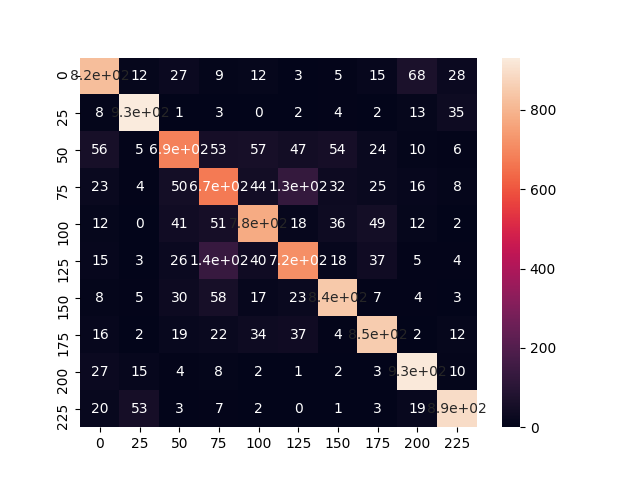
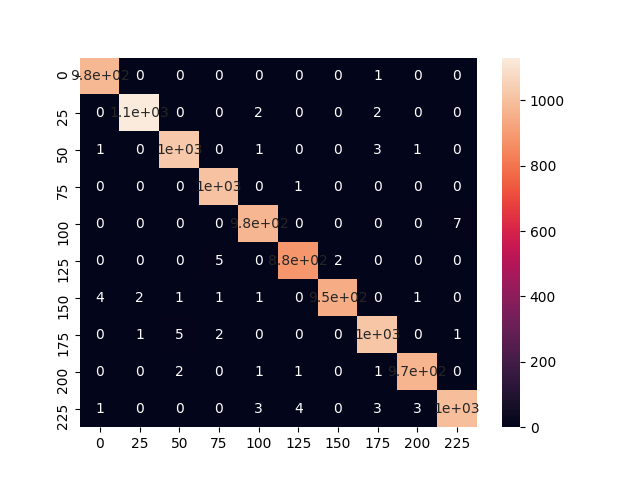
cifar10.yaml

diff --git a/functions/tsslbp.py b/functions/tsslbp.py
@@ -60,20 +60,20 @@ class TSSLBP(torch.autograd.Function):
         projects = nb.get_projects_simplified(outputs, u, name, syns_posts, grad_delta)
         projects = projects.T.view(shape)
         lamda_u = 0.2
-        near = (torch.abs(u-threshold) < 1).type(torch.float)
+        near = 1.# (torch.abs(u-threshold) < 0.9).type(torch.float)
         dist_aggregate_factor = near * lamda_u / ((u-threshold)**2 + lamda_u)
         #m = torch.nn.Softmax(dim=-1)
         #dist_aggregate_factor = m(dist_aggregate_factor)
         #grad = grad_delta * dist_aggregate_factor
         grad = projects * (outputs - 0.5) * 2 * dist_aggregate_factor#sig_grad
         nb.update_norm(grad, name)
-        """
+
         mean = torch.mean(torch.abs(grad))
         last_norm = glv.grad_norm_dict[glv.last_layer_name]
         #grad = grad/mean * last_norm * torch.log(mean/last_norm + 1.1)
         grad = grad * torch.log(last_norm/(mean+0.00001) + 1.02) * 1.2
         nb.update_norm(grad, name)
-        """
+
 
         """
         grad = torch.zeros_like(grad_delta)

diff --git a/layers/linear.py b/layers/linear.py
@@ -38,7 +38,7 @@ class LinearLayer(nn.Linear):
 
         super(LinearLayer, self).__init__(n_inputs, n_outputs, bias=False)
 
-        nn.init.kaiming_uniform_(self.weight)
+        nn.init.kaiming_normal_(self.weight)
         self.weight = torch.nn.Parameter(weight_scale * self.weight, requires_grad=True)
 
         print("linear")

diff --git a/main.py b/main.py
@@ -197,7 +197,7 @@ if __name__ == '__main__':
 
     # Check whether a GPU is available
     if torch.cuda.is_available():
-        device = 0#torch.device("cuda")
+        device = 3#torch.device("cuda")
         cuda.init()
         c_device = aboutCudaDevices()
         print(c_device.info())
